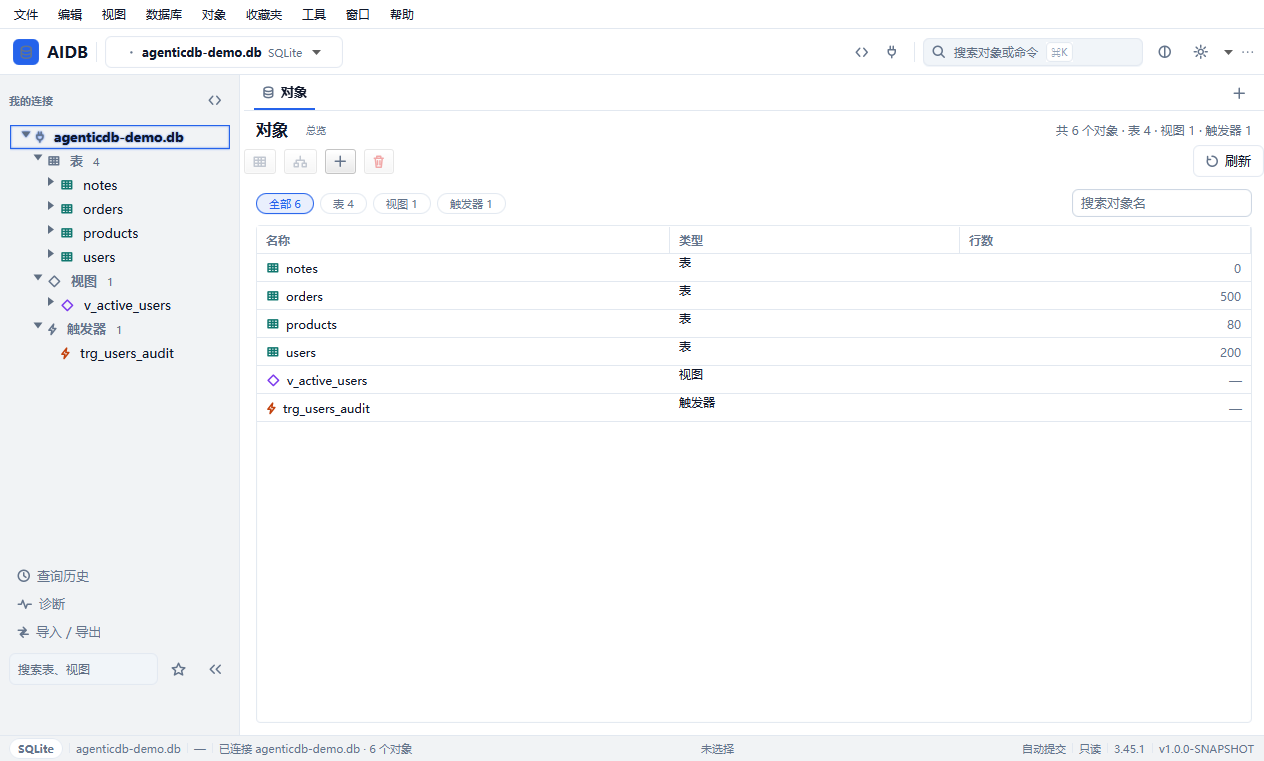
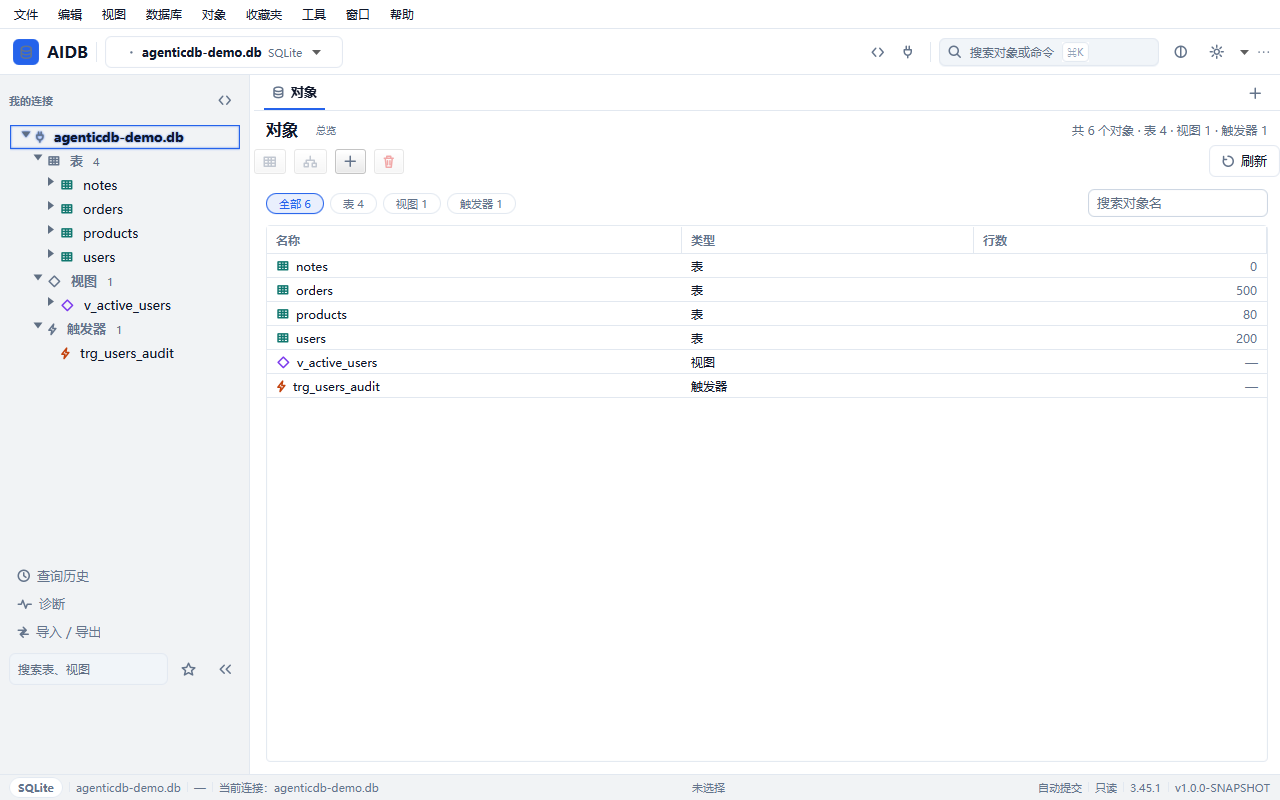
feat(ui): UX-0 截图与偏好可复现（ADB_DENSITY / 独立 prefs）
固化截图环境：密度、偏好根、重置与演示连接都由脚本钉住，
ADB_DENSITY 只影响本次运行、不写回用户偏好；p0-shell 连跑两次
SHA-256 一致。新增两条门禁并做过变异验证，基线 714 / 92 / 0。

diff --git a/ui/adb-ui-shell/src/test/java/io/agenticdb/ui/shell/AppShellTest.java b/ui/adb-ui-shell/src/test/java/io/agenticdb/ui/shell/AppShellTest.java
@@ -561,7 +561,56 @@ class AppShellTest {
                 .getStyleClass().contains("density-compact")).isTrue();
     }
 
-    private static MenuItem menuItem(FxRobot robot, String id) {        return items(robot).stream()
+    /**
+     * ⭐ UX-0：ADB_DENSITY 优先于偏好，且**不写回**偏好。
+     *
+     * <p>截图脚本靠它把行高固定成 compact；如果写回偏好，
+     * 下一次不带环境变量启动就会被这次截图“污染”。
+     */
+    @Test
+    void forcedDensityWinsAndDoesNotWriteBackToPreferences() throws Exception {
+        String oldNode = System.getProperty("adb.prefs.node");
+        String oldDensity = System.getProperty("adb.density");
+        String node = "io/agenticdb/tests/density-" + System.nanoTime();
+        Preferences testNode = Preferences.userRoot().node(node);
+        try {
+            System.setProperty("adb.prefs.node", node);
+            SettingsStore store = new SettingsStore();
+            store.set("ui.density", "comfort");
+            System.setProperty("adb.density", "compact");
+
+            AtomicReference<AppShell> holder = new AtomicReference<>();
+            WaitForAsyncUtils.asyncFx(() -> holder.set(
+                    new AppShell(store, new ThemeManager(new SettingsStore())))).get();
+            WaitForAsyncUtils.waitForFxEvents();
+
+            assertThat(holder.get().getStyleClass())
+                    .as("强制密度必须生效")
+                    .contains("density-compact");
+            assertThat(store.get("ui.density", ""))
+                    .as("ADB_DENSITY 只影响本次运行，不能覆盖用户偏好")
+                    .isEqualTo("comfort");
+        } finally {
+            if (oldNode == null) {
+                System.clearProperty("adb.prefs.node");
+            } else {
+                System.setProperty("adb.prefs.node", oldNode);
+            }
+            if (oldDensity == null) {
+                System.clearProperty("adb.density");
+            } else {
+                System.setProperty("adb.density", oldDensity);
+            }
+            try {
+                testNode.removeNode();
+            } catch (Exception ignored) {
+                // 测试偏好节点清理失败不影响结论。
+            }
+        }
+    }
+
+    private static MenuItem menuItem(FxRobot robot, String id) {
+        return items(robot).stream()
                 .filter(item -> id.equals(item.getId()))
                 .findFirst()
                 .orElseThrow();

diff --git a/ui/adb-ui-shell/src/main/java/io/agenticdb/ui/shell/AppShell.java b/ui/adb-ui-shell/src/main/java/io/agenticdb/ui/shell/AppShell.java
@@ -141,6 +141,7 @@ public final class AppShell extends StackPane {
     private int detailsWidth;
     private boolean detailsVisible;
     private PauseTransition toastTimer;
+    private String density = "normal";
 
     public AppShell(SettingsStore settings, ThemeManager themeManager) {
         this.settings = settings;
@@ -235,7 +236,7 @@ public final class AppShell extends StackPane {
 
         getStyleClass().add("app-shell");
         buildUi();
-        applyDensity(settings.get("ui.density", "normal"));
+        applyDensity(initialDensity());
         sideBar.setCollapsed(sidebarCollapsed);
         applySidebarWidth();
         applyDetailsVisibility();
@@ -2665,11 +2666,21 @@ public final class AppShell extends StackPane {
     }
 
     private String currentDensity() {
-        String value = settings.get("ui.density", "normal");
-        return switch (value) {
-            case "compact", "comfort" -> value;
-            default -> "normal";
-        };
+        return density;
+    }
+
+    /**
+     * ⭐ UX-0：截图脚本用 ADB_DENSITY 钉住密度；它只影响本次运行，**不写回偏好**。
+     * 否则同一份脚本会被上一次运行留下的档位污染（实拍踩过：应为 28，拍成 34）。
+     */
+    private static String forcedDensity() {
+        return System.getProperty("adb.density",
+                System.getenv().getOrDefault("ADB_DENSITY", "")).trim();
+    }
+
+    private String initialDensity() {
+        String forced = forcedDensity();
+        return forced.isEmpty() ? settings.get("ui.density", "normal") : forced;
     }
 
     private void changeDensity(String density) {
@@ -2686,9 +2697,12 @@ public final class AppShell extends StackPane {
             case "compact", "comfort" -> density;
             default -> "normal";
         };
+        this.density = value;
         getStyleClass().removeAll("density-compact", "density-normal", "density-comfort");
         getStyleClass().add("density-" + value);
-        settings.set("ui.density", value);
+        if (forcedDensity().isEmpty()) {
+            settings.set("ui.density", value);
+        }
         // A19：密度以前只影响对象树，数据网格行高不变。现在一起作用。
         if (workspace != null) {
             workspace.applyDensity(value);

diff --git a/ui/adb-ui-shell/src/main/java/io/agenticdb/ui/shell/SettingsStore.java b/ui/adb-ui-shell/src/main/java/io/agenticdb/ui/shell/SettingsStore.java
@@ -1,5 +1,7 @@
 package io.agenticdb.ui.shell;
 
+import java.util.concurrent.atomic.AtomicBoolean;
+import java.util.prefs.BackingStoreException;
 import java.util.prefs.Preferences;
 
 /**
@@ -7,10 +9,17 @@ import java.util.prefs.Preferences;
  *
  * <p>P5 会换成 {@code ~/.agenticdb/config.db}；届时只替换实现，
  * 调用方（ThemeManager / AppShell）不改。
+ *
+ * <p>⭐ UX-0：截图与测试可通过 {@code ADB_PREFS_NODE} 指定独立偏好根，
+ * 并用 {@code ADB_PREFS_RESET=1} 在首次构造时清空它 —— 否则真实用户偏好
+ * （密度 / 侧栏宽度 / 上次连接）会让同一份截图脚本拍出不同画面。
+ * reset 只在显式指定 node 时生效，避免误清默认偏好。
  */
 public final class SettingsStore {
 
-    private final Preferences prefs = Preferences.userNodeForPackage(SettingsStore.class);
+    private static final AtomicBoolean RESET_DONE = new AtomicBoolean();
+
+    private final Preferences prefs = openNode();
 
     public String get(String key, String fallback) {
         return prefs.get(key, fallback);
@@ -34,5 +43,23 @@ public final class SettingsStore {
 
     public void setBoolean(String key, boolean value) {
         prefs.putBoolean(key, value);
+    }
+
+    private static Preferences openNode() {
+        String override = System.getProperty("adb.prefs.node",
+                System.getenv().getOrDefault("ADB_PREFS_NODE", "")).trim();
+        Preferences node = override.isEmpty()
+                ? Preferences.userNodeForPackage(SettingsStore.class)
+                : Preferences.userRoot().node(override.replace('.', '/'));
+        boolean reset = Boolean.parseBoolean(System.getProperty("adb.prefs.reset",
+                System.getenv().getOrDefault("ADB_PREFS_RESET", "false")).trim());
+        if (reset && !override.isEmpty() && RESET_DONE.compareAndSet(false, true)) {
+            try {
+                node.clear();
+            } catch (BackingStoreException e) {
+                System.err.println("[adb] 清理截图偏好失败: " + e.getMessage());
+            }
+        }
+        return node;
     }
 }

diff --git a/ui/adb-ui-shell/src/test/java/io/agenticdb/ui/shell/ScreenshotScriptAuditTest.java b/ui/adb-ui-shell/src/test/java/io/agenticdb/ui/shell/ScreenshotScriptAuditTest.java
@@ -72,6 +72,33 @@ class ScreenshotScriptAuditTest {
                 .isEmpty();
     }
 
+    /**
+     * ⭐ UX-0：截图必须钉住主题、密度、连接与偏好根。
+     *
+     * <p>少钉任何一个，同一份脚本都会拍出不同画面（实拍踩过：
+     * {@code p2-users} 行高 34 而不是默认 28，因为真实偏好里留着 {@code comfort}）。
+     */
+    @Test
+    void shotsScriptPinsThemeDensityConnectionAndPrefs() throws IOException {
+        Path script = repositoryRoot().resolve("scripts/shots.sh");
+        assertThat(Files.isRegularFile(script)).as("找不到 %s", script).isTrue();
+        String text = Files.readString(script, StandardCharsets.UTF_8);
+
+        assertThat(text)
+                .as("截图必须用 ADB_DENSITY 钉住密度")
+                .contains("export ADB_DENSITY=");
+        assertThat(text)
+                .as("截图必须使用独立偏好根，并在每次启动时清空")
+                .contains("export ADB_PREFS_NODE=")
+                .contains("export ADB_PREFS_RESET=");
+        assertThat(text)
+                .as("截图必须显式指定连接，不能依赖「上次用的连接」")
+                .contains("export ADB_CONNECTION=");
+        assertThat(text)
+                .as("主题仍必须用 ADB_THEME_FORCE 钉住")
+                .contains("ADB_THEME_FORCE=");
+    }
+
     // ─────────────────────────── 工具 ───────────────────────────
 
     /** 拼接全部 UI 主源码，用来查 {@code setId("...")}。 */

diff --git a/docs/NEXT-STEPS.md b/docs/NEXT-STEPS.md
@@ -4,7 +4,7 @@
 > `NAVICAT-TODO.md` 是唯一执行清单（逐条勾选）；本文件是**阶段规划**（批次 + 依赖 + 门禁）。
 > **界面专项的详细分析与规范见 `docs/UI-ROADMAP.md`**。
 >
-> 最后更新：**2026-10-24（第二十一轮执行中：declarations 已删除，基线 712/92；下一步 UX-0）**
+> 最后更新：**2026-10-24（第二十一轮执行中：declarations 已删除 + UX-0 已完成，基线 714/92；下一步 UX-1）**
 
 ---
 
@@ -12,11 +12,11 @@
 
 | 指标 | 值 |
 |---|---|
-| 门禁 | **712 条 / 92 类 / 0 失败**（`./mvnw -B clean verify` + `java tools/TestCount.java`）。**口径说明**：相比第二十轮的 755 / 95，减少的 **43 条 / 3 类全部来自删除 `declarations`**（模块 40 + `DeclaredDialectConsistencyTest` 3），**不是测试变红**；另有 **44 条环境门控跳过**（`adb-jdbc` 30 + `adb-introspect` 14）。**硬门禁是「0 失败」，不是总数**。 |
+| 门禁 | **714 条 / 92 类 / 0 失败**（`./mvnw -B clean verify` + `java tools/TestCount.java`）。**口径说明**：相比第二十轮的 755 / 95，减少的 **43 条 / 3 类全部来自删除 `declarations`**（模块 40 + `DeclaredDialectConsistencyTest` 3），**不是测试变红**；UX-0 再 **+2**（偏好不写回 + 脚本钉密度）；另有 **44 条环境门控跳过**（`adb-jdbc` 30 + `adb-introspect` 14）。**硬门禁是「0 失败」，不是总数**。 |
 | 真库验证 | ✅ SQLite（演示库）· ✅ **MySQL 5.7.44 真库**（9 例全绿）· ✅ **PostgreSQL 16 + MySQL 8.4 Testcontainers**（11 例全绿；抓出 2 个跨方言 bug，见 `NAVICAT-TODO.md` §26）—— ⚠ 本机 Docker 不可用，后两类**本轮未执行**（跳过），改回环境即可复跑 |
 | 截图 | `docs/screenshots/` **12 张**（亮 / 暗两套主题 + 表清单 + 新建表/索引弹窗 + **右侧对象详情面板** + **结构页 DDL 页签**）；第二十轮已按 S-6/S-9 重拍 5 张 |
 | 工作区 | 第二十轮与第二十一轮规划已提交（`f43142b`）；当前正在提交 declarations 删除（见 §8 第 0 步） |
-| **下一动作** | **UX-0 截图可复现**（`NAVICAT-TODO.md` §34.2 / `UI-ROADMAP.md` §12.2）→ UX-1 → UX-2 → UX-3/4/5 → P2/P5/P6 → UX-6。**S-7 欢迎页仍需三选一裁定** |
+| **下一动作** | **UX-1 视觉令牌基线**（`NAVICAT-TODO.md` §34.2 / `UI-ROADMAP.md` §12.2）→ UX-2 → UX-3/4/5 → P2/P5/P6 → UX-6。**S-7 欢迎页仍需三选一裁定** |
 
 > 🔴 **第六轮全量核查改变了优先级排序**：门禁 443 条全绿，但逐文件核对发现
 > **4 个真实缺陷**（其中 D2「改列抹注释」与 D3「改列丢 CHECK」会**丢数据且无撤销**），
@@ -26,6 +26,7 @@
 
 | 轮次 / 批次 | 内容 | 关键结果 |
 |---|---|---|
+| **第二十一轮 · UX-0（2026-10-24）** | **截图与偏好可复现**（`NAVICAT-TODO.md` §34.2） | `ADB_PREFS_NODE` / `ADB_PREFS_RESET` 隔离并清理截图偏好（仅显式节点名才清）；`ADB_DENSITY` 优先且**不写回**；`shots.sh` 钉住密度/节点/重置/演示连接；**`p0-shell` 连跑两次同 SHA-256**（50184 字节）；两条门禁均变异验证；基线 **714 / 92 / 0** |
 | **第二十一轮 · 执行（2026-10-24）** | **删除 `declarations` 声明层** | 模块 + 根目录 YAML + 父 POM module/dependencyManagement + `snakeyaml`/`json-schema-validator` + `adb-jdbc` 测试依赖 + `DeclaredDialectConsistencyTest` 全部移除；基线 **755→712 / 95→92**，属主动减面 |
 | **第二十一轮 · 规划（2026-10-24）** | **UIUX 升级（UX-0…UX-6）+ P2/P5/P6 收尾**（`NAVICAT-TODO.md` §34 / `UI-ROADMAP.md` §12） | 两张新 Navicat 实拍逐张量差：行高 22 vs 34、正文 12 vs 13、工具条图标+文字 vs 纯图标、无单元格竖线、选中态弱、圆角 3–4 vs 6。裁定：P2/P5/P6 全做、`declarations` 删除（-43 条测试）、C4 密度做、WinCred 用 JNA、xlsx 用 POI。**先 UX-0 钉密度/主题，否则截图不可复现** |
 | **第二十轮 · Windows 实机** | **S-8 门禁假绿 + S-9 对象工具条 + S-6 可读列宽 + D-1 主键可空性 + Q-1/Q-2 测试平台假设**（`NAVICAT-TODO.md` §33） | ⭐ 第一次在 Windows 跑全量门禁，发现 **5 个静态审计用 `/` 过滤 `\` 路径**：方言审计把全部合法文件报成违规，另外 4 个**一个文件没扫却显示绿** → 路径归一化 + **「扫到 0 个文件必须红」下限断言**（这条比归一化更重要）；对象首页补「打开/设计/新建/删除」工具条与详情联动；三张表 `CONSTRAINED_FLEX_LAST` + `ColumnWidths` 可读下限（CJK 算 2 单位、列头装饰计入）—— **先用探针测出约束策略本来就尊重 minWidth**（宽屏填满 / 窄屏卡住下限 + 横向滚动），因此否决了会留白屏的 `UNCONSTRAINED`；SQLite `INTEGER PRIMARY KEY` 按 rowid 别名判非空（TEXT PK 仍可空）；**5 个变异 M1–M5 全部验证**，门禁 **755 / 95 类 / 0 失败** |
@@ -136,7 +137,7 @@
 
 | 批次 | 内容 | 量化验收 | 优先级 |
 |---|---|---|---|
-| **UX-0** | 截图可复现：`ADB_DENSITY` + prefs 隔离 | 同一脚本连跑两次同尺寸 | P0 |
+| **UX-0** ✅ | 截图可复现：`ADB_DENSITY` + prefs 隔离 | 同一脚本连跑两次同尺寸（**已实测同 SHA-256**） | P0 |
 | **UX-1** | 令牌：圆角 3/4/6/8、边框/表面分层、投影收敛、图标 14/16/20 | 令牌对拍 + 对比度 + 审计 | P0 |
 | **UX-2** | 密度/排版/chrome：新增 dense 22，默认 compact；字号 12；对象头/工具条/状态栏收薄 | 765px 高可见 ≥22 行 | P0 |
 | **UX-3** | 工具条主操作「图标+文字」+ 分组 + 补导入/历史/单元格编辑器 | 可发现性门禁（主操作必须有文字） | P1 |
@@ -194,7 +195,7 @@ jlink 自定义运行时 → jpackage（macOS `.app`/`.dmg`、Windows `.msi`、L
 
 ```
 P0  0) ✅ §34.1 文档对齐 + 删除 declarations（已完成；基线 712 / 92）
-P0  1) UX-0 截图可复现（ADB_DENSITY + prefs 隔离）
+P0  1) ✅ UX-0 截图可复现（ADB_DENSITY + prefs 隔离；基线 714 / 92）
 P0  2) UX-1 令牌（圆角/边框/表面/投影/图标尺寸）
 P0  3) UX-2 密度与 chrome（dense 22 / 默认 compact / 12px / ≥22 行）
 P1  4) UX-3 工具条图标+文字 + 补导入/历史/单元格编辑器

diff --git a/docs/EXEC-SUMMARY.md b/docs/EXEC-SUMMARY.md
@@ -76,9 +76,9 @@ A10 语句超时 / A12 连接池归还 / A15 连接与内省出 UI 线程 / A16 
 
 ### 2.1 基线（2026-10-24 第二十一轮实测刷新；本文其余章节仍是第九轮快照）
 
-- **门禁**：**712 条 / 92 类 / 0 失败**（`./mvnw -B clean verify` + `java tools/TestCount.java`；另有 44 条**环境门控**跳过 —— Docker / MySQL 真库环境变量不可用时跳过，不影响「0 失败」这条硬门禁）。
+- **门禁**：**714 条 / 92 类 / 0 失败**（`./mvnw -B clean verify` + `java tools/TestCount.java`；另有 44 条**环境门控**跳过 —— Docker / MySQL 真库环境变量不可用时跳过，不影响「0 失败」这条硬门禁）。
   - 相比第二十轮的 755 / 95，减少的 43 条 / 3 类来自**删除 `declarations` 声明层**，属主动减面。
-  - 增长轨迹：SQLite **443** → 第八轮 **486** → 索引编辑 **512** → 第十三轮 **631** → 第十五轮 **675** → 第十六轮 **691** → 第十七轮 **721** → 第十八轮 **717** → 第十九轮 **731** → 第二十轮 **755** → 第二十一轮 **712**（删 declarations -43；总数随外部真库可用性浮动，**模块内数字是准的**）。
+  - 增长轨迹：SQLite **443** → 第八轮 **486** → 索引编辑 **512** → 第十三轮 **631** → 第十五轮 **675** → 第十六轮 **691** → 第十七轮 **721** → 第十八轮 **717** → 第十九轮 **731** → 第二十轮 **755** → 第二十一轮 **712**（删 declarations -43）→ **UX-0 714**（+2）（总数随外部真库可用性浮动，**模块内数字是准的**）。
 - **真库**：SQLite（演示库）+ **MySQL 5.7.44 真库**（9 例）+ **PostgreSQL 16 / MySQL 8.4 Testcontainers**（11 例，需 Docker）。
   - 权威当前状态见 **`NAVICAT-TODO.md` 表头 + §23 变更记录**，本文不逐轮重写。
 

diff --git a/README.md b/README.md
@@ -12,7 +12,7 @@
 ## 当前状态（2026-10-24）
 
 **P0–P4 已完成、P5/P6 进行中、界面专项 U-B1–U-B7 已落地。**
-门禁 **712 条 / 92 类 / 0 失败**（2026-10-24 · 第二十一轮 Windows 实机实测；另有 44 条环境门控跳过 —— 需 Docker / MySQL 真库环境变量）。
+门禁 **714 条 / 92 类 / 0 失败**（2026-10-24 · 第二十一轮 Windows 实机实测；另有 44 条环境门控跳过 —— 需 Docker / MySQL 真库环境变量）。
 
 > **第八轮之后**：D2+D4（MySQL/PG 列注释读回）已修；B5-S1（索引可编辑）已落地；
 > **T1–T4（建表 / 清空 / 重命名 / 删表）已落地**（T1=弹窗，按形态裁定）；9 张验收截图完成。
@@ -98,7 +98,7 @@
 | HikariCP 连接池（PG/MySQL），SQLite 直连 | ✅ | `ConnectionPool` |
 | TestFX 冒烟 + 数据页/编辑/查询页/结构页/连接页门禁 | ✅ | `AppShellTest` / `DataGridPageTest` / `QueryPageTest` / `StructurePageTest` / `ConnectionsPageTest` / `ConnectionWizardTest` |
 
-当前门禁：**712 条 / 92 类 / 0 失败**（2026-10-24 · 第二十一轮 Windows 实机实测；`./mvnw -B clean verify` + `java tools/TestCount.java`；另有 44 条环境门控跳过 —— Docker / MySQL 真库不可用时会跳过，**不影响 0 失败这条硬门禁**）。统一命令：`./mvnw -B clean verify`。
+当前门禁：**714 条 / 92 类 / 0 失败**（2026-10-24 · 第二十一轮 Windows 实机实测；`./mvnw -B clean verify` + `java tools/TestCount.java`；另有 44 条环境门控跳过 —— Docker / MySQL 真库不可用时会跳过，**不影响 0 失败这条硬门禁**）。统一命令：`./mvnw -B clean verify`。
 
 > ⚠ **本机环境**：`java` 默认不在 PATH。可用的 JDK：
 > - Windows 10：`~/.jdks/openjdk-27.0.1.0.2`（pom 的 enforcer 区间为 `[25,28)`）

diff --git a/docs/UI-ROADMAP.md b/docs/UI-ROADMAP.md
@@ -582,12 +582,17 @@ java tools/TestCount.java      # 按 <testcase> 计数，断言总数 ≥ 300
 
 ### 12.2 批次（每批独立可验收）
 
-#### UX-0 · 截图与偏好可复现（S，先做）
+#### UX-0 · 截图与偏好可复现（S，先做）— ✅ 已完成（2026-10-24）
 
 | 项 | 改动 | 门禁 |
 |---|---|---|
 | 密度固定 | `shots.sh` 为每张图设置 `ADB_DENSITY=compact`（对比图可单独设 `dense`）；`AppShell` 读取该环境变量并**不写回** prefs | `ScreenshotScriptAuditTest` 断言脚本含 `ADB_DENSITY`；`AppShellTest` 断言环境变量优先且不落盘 |
 | 偏好隔离 | 截图/测试使用独立 prefs 根（或启动前清 `ui.density`），避免上一轮遗留 | 同一脚本连跑两次产出同尺寸行高（新 `ScreenshotDeterminismTest` 或脚本内断言） |
+
+**落地**：`SettingsStore` 新增 `ADB_PREFS_NODE` / `ADB_PREFS_RESET`（仅显式给节点名才清理）；
+`AppShell.forcedDensity()` 优先于 prefs，强制值不写回；`shots.sh` 默认导出密度 / 节点 / 重置 / `ADB_CONNECTION=demo`。
+**实测**：`p0-shell` 连跑两次，SHA-256 均为 `2ee03edb…f03e8`、50184 字节。
+两条门禁均变异验证（删 `export ADB_DENSITY=` → 红；去掉不写回守卫 → 红）。
 
 #### UX-1 · 视觉令牌基线（M）
 

diff --git a/docs/ARCHITECTURE.md b/docs/ARCHITECTURE.md
@@ -364,7 +364,7 @@ app.css          →  业务样式，引用 -adb-* 令牌
 ./mvnw -B clean verify
 ```
 
-当前：**92 个测试类 / 712 条执行（SQLite，0 失败）/ 44 条跳过（需外部真库或 Docker）**
+当前：**92 个测试类 / 714 条执行（SQLite，0 失败）/ 44 条跳过（需外部真库或 Docker）**
 （2026-10-24 · 第二十轮 · Windows 10 + JDK 27 全量实测）。
 
 统计用工具兜底（口径问题见 4.5-28）：
